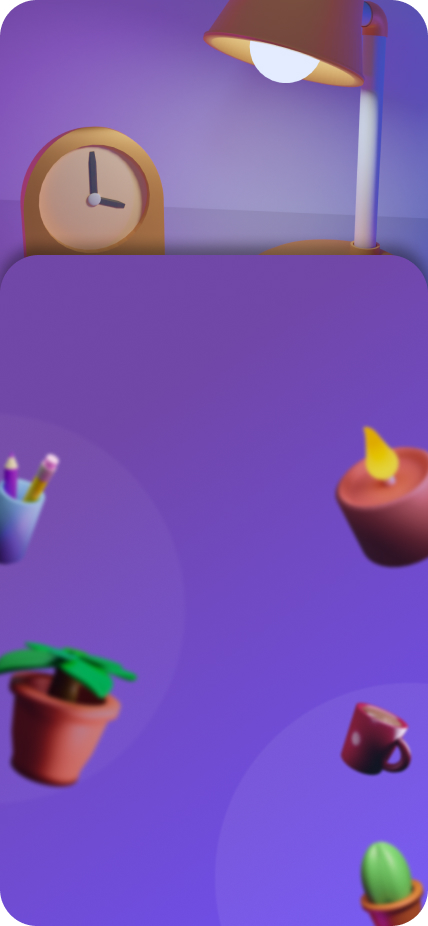
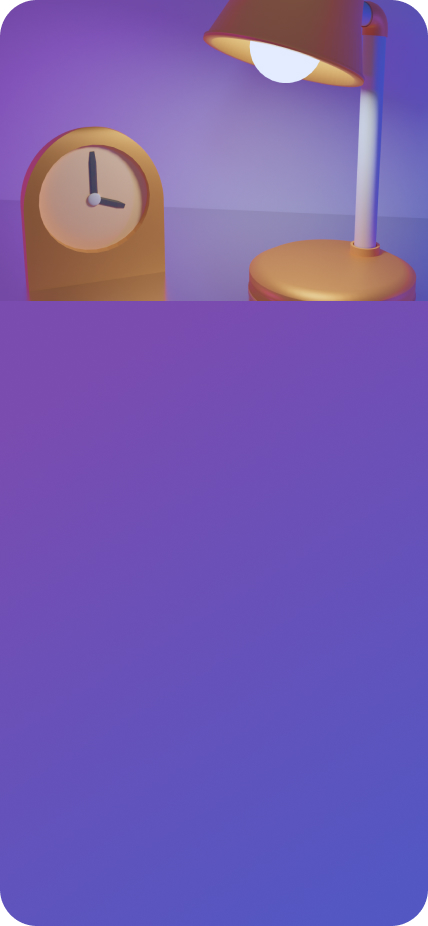
fix: style in sign-up section

diff --git a/src/components/SignUpSection.jsx b/src/components/SignUpSection.jsx
@@ -29,7 +29,6 @@ function SignUpSection() {
 
     return (
         <section className="sign-section sign-section__sign-up">
-            <div className="sign-section__container _container">
                 <div className="sign-section__header sign-section__header_sign-up">
                     <Link to="/sign-in">
                         <svg width="57" height="57" viewBox="0 0 57 57" fill="none" xmlns="http://www.w3.org/2000/svg">
@@ -40,63 +39,69 @@ function SignUpSection() {
                     <h1 className="sign-section__title">Sign Up</h1>
                 </div>
                 <div className="sign-section__main sign-main sign-main_sign-up">
-                    <h2 className="sign-main__title">Sign Up</h2>
-                    <p className="sign-main__subtitle">You already have an account? <Link to="/sign-in">Sign in</Link></p>
-                    <form>
-                        <label htmlFor="" className="label label_email">
-                            <input type="email" placeholder="Email adress"/>
-                        </label>
-                        <label htmlFor="" className="label label_name">
-                            <input type="text" placeholder="Password"/>
-                            <div></div>
-                        </label>
-                        <label htmlFor="" className="label label_mobile">
-                            <input type="tel" placeholder="Mobile"/>
-                            <div className="dropdown" onClick={() => setIsDropdownOpen(!isDropdownOpen)}>
-                                <div className="dropdown__header" style={dropdownHeaderStyle}>
-                                    <svg style={dropdownArrowStyle} width="24" height="14" viewBox="0 0 24 14" fill="none" xmlns="http://www.w3.org/2000/svg">
-                                        <path d="M10.9393 13.0607C11.5251 13.6464 12.4749 13.6464 13.0607 13.0607L22.6066 3.51472C23.1924 2.92893 23.1924 1.97919 22.6066 1.3934C22.0208 0.807611 21.0711 0.807611 20.4853 1.3934L12 9.87868L3.51472 1.3934C2.92893 0.807611 1.97919 0.807611 1.3934 1.3934C0.807611 1.97919 0.807611 2.92893 1.3934 3.51472L10.9393 13.0607ZM10.5 11V12H13.5V11H10.5Z" fill="white" fill-opacity="0.6"/>
-                                    </svg>
-                                    <img src="./assets/images/sign-up-section/flag.svg" alt=""/>
+                    <div className="sign-main__container _container">
+                        <h2 className="sign-main__title">Sign Up</h2>
+                        <p className="sign-main__subtitle">You already have an account? <Link to="/sign-in">Sign in</Link></p>
+                        <form>
+                            <label htmlFor="" className="label label_email">
+                                <input type="email" placeholder="Email adress"/>
+                            </label>
+                            <label htmlFor="" className="label label_name">
+                                <input type="text" placeholder="Password"/>
+                                <div></div>
+                            </label>
+                            <label htmlFor="" className="label label_mobile">
+                                <input type="tel" placeholder="Mobile"/>
+                                <div className="dropdown" onClick={() => setIsDropdownOpen(!isDropdownOpen)}>
+                                    <div className="dropdown__header" style={dropdownHeaderStyle}>
+                                        <svg style={dropdownArrowStyle} width="24" height="14" viewBox="0 0 24 14" fill="none" xmlns="http://www.w3.org/2000/svg">
+                                            <path d="M10.9393 13.0607C11.5251 13.6464 12.4749 13.6464 13.0607 13.0607L22.6066 3.51472C23.1924 2.92893 23.1924 1.97919 22.6066 1.3934C22.0208 0.807611 21.0711 0.807611 20.4853 1.3934L12 9.87868L3.51472 1.3934C2.92893 0.807611 1.97919 0.807611 1.3934 1.3934C0.807611 1.97919 0.807611 2.92893 1.3934 3.51472L10.9393 13.0607ZM10.5 11V12H13.5V11H10.5Z" fill="white" fill-opacity="0.6"/>
+                                        </svg>
+                                        <img src="./assets/images/sign-up-section/flag.svg" alt=""/>
+                                    </div>
+                                    <div className="dropdown__list" style={dropdownListStyle}>
+                                        <div className="dropdown__item">
+                                            <img src="./assets/images/sign-up-section/flag.svg" alt="" />
+                                        </div>
+                                        <div className="dropdown__item">
+                                            <img src="./assets/images/sign-up-section/flag.svg" alt="" />
+                                        </div>
+                                        <div className="dropdown__item">
+                                            <img src="./assets/images/sign-up-section/flag.svg" alt="" />
+                                        </div>
+                                        <div className="dropdown__item">
+                                            <img src="./assets/images/sign-up-section/flag.svg" alt="" />
+                                        </div>
+                                    </div>
                                 </div>
-                                <div className="dropdown__list" style={dropdownListStyle}>
-                                    <div className="dropdown__item">
-                                        <img src="./assets/images/sign-up-section/flag.svg" alt="" />
-                                    </div>
-                                    <div className="dropdown__item">
-                                        <img src="./assets/images/sign-up-section/flag.svg" alt="" />
-                                    </div>
-                                    <div className="dropdown__item">
-                                        <img src="./assets/images/sign-up-section/flag.svg" alt="" />
-                                    </div>
-                                    <div className="dropdown__item">
-                                        <img src="./assets/images/sign-up-section/flag.svg" alt="" />
-                                    </div>
+                            </label>
+                            <p className="sign-in__agree">
+                                By signing up you’re agree to our <a>Terms &#38; Conditions and Privacy Policy</a>
+                            </p>
+                            <button className="sign-up__button button">Next step</button>
+                        </form>
+                        <div className="systems">
+                            <div className="systems__header">
+                                <div></div>
+                                <p>Or continue with</p>
+                                <div></div>
+                            </div>
+                            <div className="systems__main">
+                                <div>
+                                    <img src="./assets/images/sign-in-section/google.svg" alt="" />
                                 </div>
-                            </div>
-                        </label>
-                        <p className="sign-in__agree">
-                            By signing up you’re agree to our <a>Terms &#38; Conditions and Privacy Policy</a>
-                        </p>
-                        <button className="sign-up__button button">Next step</button>
-                    </form>
-                    <div className="systems">
-                        <div className="systems__header">
-                            <div></div>
-                            <p>Or continue with</p>
-                            <div></div>
-                        </div>
-                        <div className="systems__main">
-                            <div>
-                                <img src="./assets/images/sign-in-section/google.svg" alt="" />
-                            </div>
-                            <div>
-                                <img src="./assets/images/sign-in-section/apple.svg" alt="" />
+                                <div>
+                                    <img src="./assets/images/sign-in-section/apple.svg" alt="" />
+                                </div>
                             </div>
                         </div>
                     </div>
+                    <div className="sign-main__pencils"></div>
+                    <div className="sign-main__candle"></div>
+                    <div className="sign-main__plant"></div>
+                    <div className="sign-main__cup"></div>
+                    <div className="sign-main__cactus"></div>
                 </div>
-            </div>
         </section>
     )
 }

diff --git a/src/styles/sign-in.scss b/src/styles/sign-in.scss
@@ -22,7 +22,7 @@
     flex-grow: 1;
     
     &.sign-section__header_sign-up {
-        margin: 0 0 18vh; //0 0 163px
+        margin: 0 0 10vh; //0 0 163px
     }
     
     .sign-section__title {
@@ -43,8 +43,6 @@
 }
 
 .sign-main {
-    // background: url("../../public/assets/images/sign-in-section/main-background.jpg") no-repeat center;
-    // background-size: contain;
     background: linear-gradient(157deg, #7147A7 24.53%, #6F4FEE 93.59%);
     padding: 5vh 0 1.5vh; //51px 0 0
     border-radius: 39px 39px 0 0;
@@ -52,7 +50,7 @@
     position: relative;
 
     &.sign-main_sign-up {
-        padding: 2.7vh 0 0; //25px 0 0
+        padding: 2.6vh 0 1.5vh; //25px 0 0
     }
 
     .sign-main__title {
@@ -99,8 +97,9 @@
             background-position: left center;
             background-repeat: no-repeat;
             padding: 0 0 0 15%; //0 0 0 42px
-            max-width: 85%;
+            max-width: 60%;
             flex-grow: 1; 
+            padding-right: 5px;
             
             &::placeholder {
                 color: rgba(255, 255, 255, 0.49);
@@ -276,12 +275,6 @@
         background-size: cover;
     }
 }
-
-// @media (min-width: 768px) {
-//     .sign-main {
-//         background-size: contain;
-//     }
-// }
 
 .dropdown {
     cursor: pointer;
